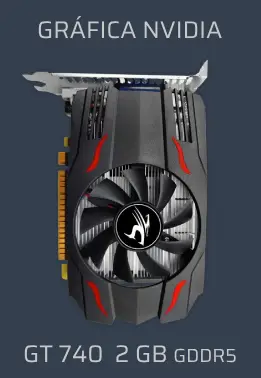
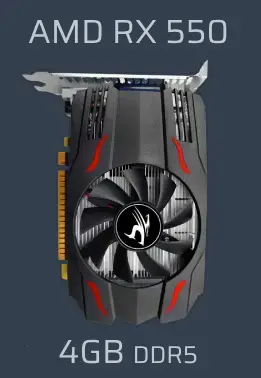
up550

Changed region(s): [[0.092, 0.0291, 0.8889, 0.1164], [0.092, 0.873, 0.9195, 0.9603]]

diff --git a/index.html b/index.html
@@ -786,7 +786,7 @@
                             <li class="flex items-start gap-3"><i class="fas fa-microchip text-indigo-500 mt-1"></i><span><strong>Procesador:</strong> Intel i5 3.6Ghz <small class="font-black">4 Núcleos</small></span></li>
                             <li class="flex items-start gap-3"><i class="fas fa-desktop text-indigo-500 mt-1"></i><span><strong>Motherboard:</strong> H61-M2 <small>OEM</small></span></li>
                             <li class="flex items-start gap-3"><i class="fas fa-memory text-indigo-500 mt-1"></i><span><strong>RAM:</strong> 16GB DDR3 <small class="font-black">Dual Channel</small></span></li>
-                            <li class="flex items-start gap-3"><i class="fas fa-gamepad text-indigo-500 mt-1"></i><span><strong>Gráficos:</strong> NVIDIA GT 740 2GB<small class="font-black"> GDDR5</small></span></li>
+                            <li class="flex items-start gap-3"><i class="fas fa-gamepad text-indigo-500 mt-1"></i><span><strong>Gráficos:</strong> AMD 550 4GB<small class="font-black"> GDDR5</small></span></li>
                             <li class="flex items-start gap-3"><i class="fas fa-hdd text-indigo-500 mt-1"></i><span><strong>Almacenamiento:</strong> 480GB SSD <small class="font-black">SATA</small></span></li>
                             <li class="flex items-start gap-3"><i class="fas fa-bolt text-indigo-500 mt-1"></i><span><strong>Fuente:</strong> ATX 550w</span></li>
                             <li class="flex items-start gap-3"><i class="fab fa-windows text-indigo-500 mt-1"></i><span><strong>Sistema Operativo:</strong> WindOS 11 Pro<small> 23H2</small></span></li>
